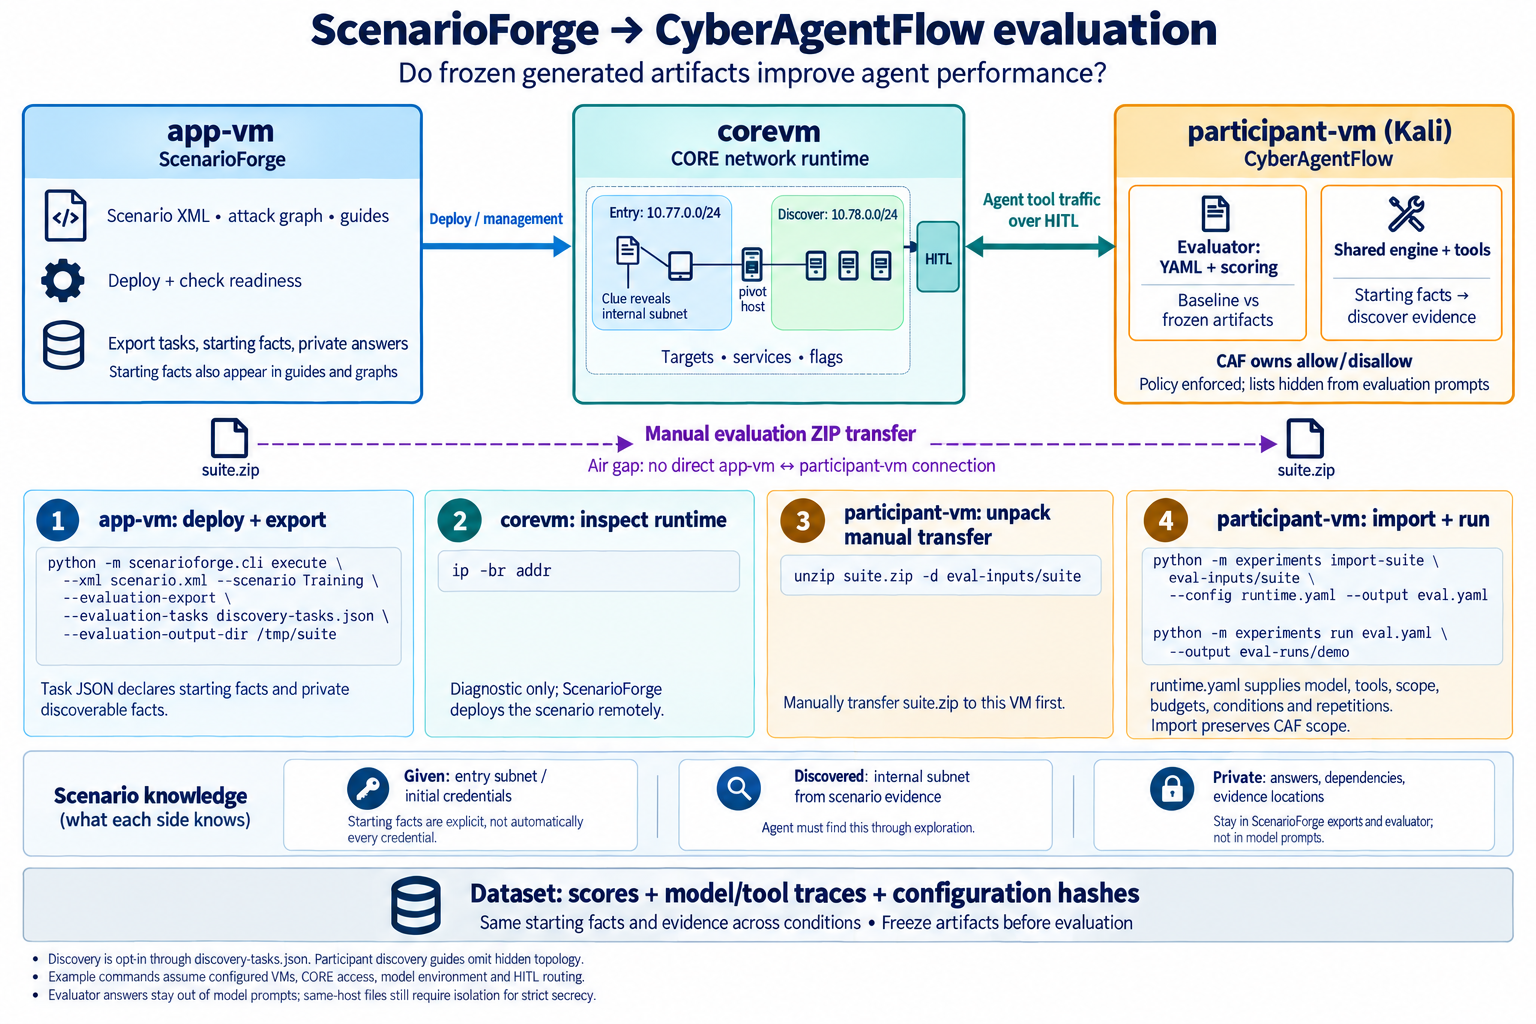
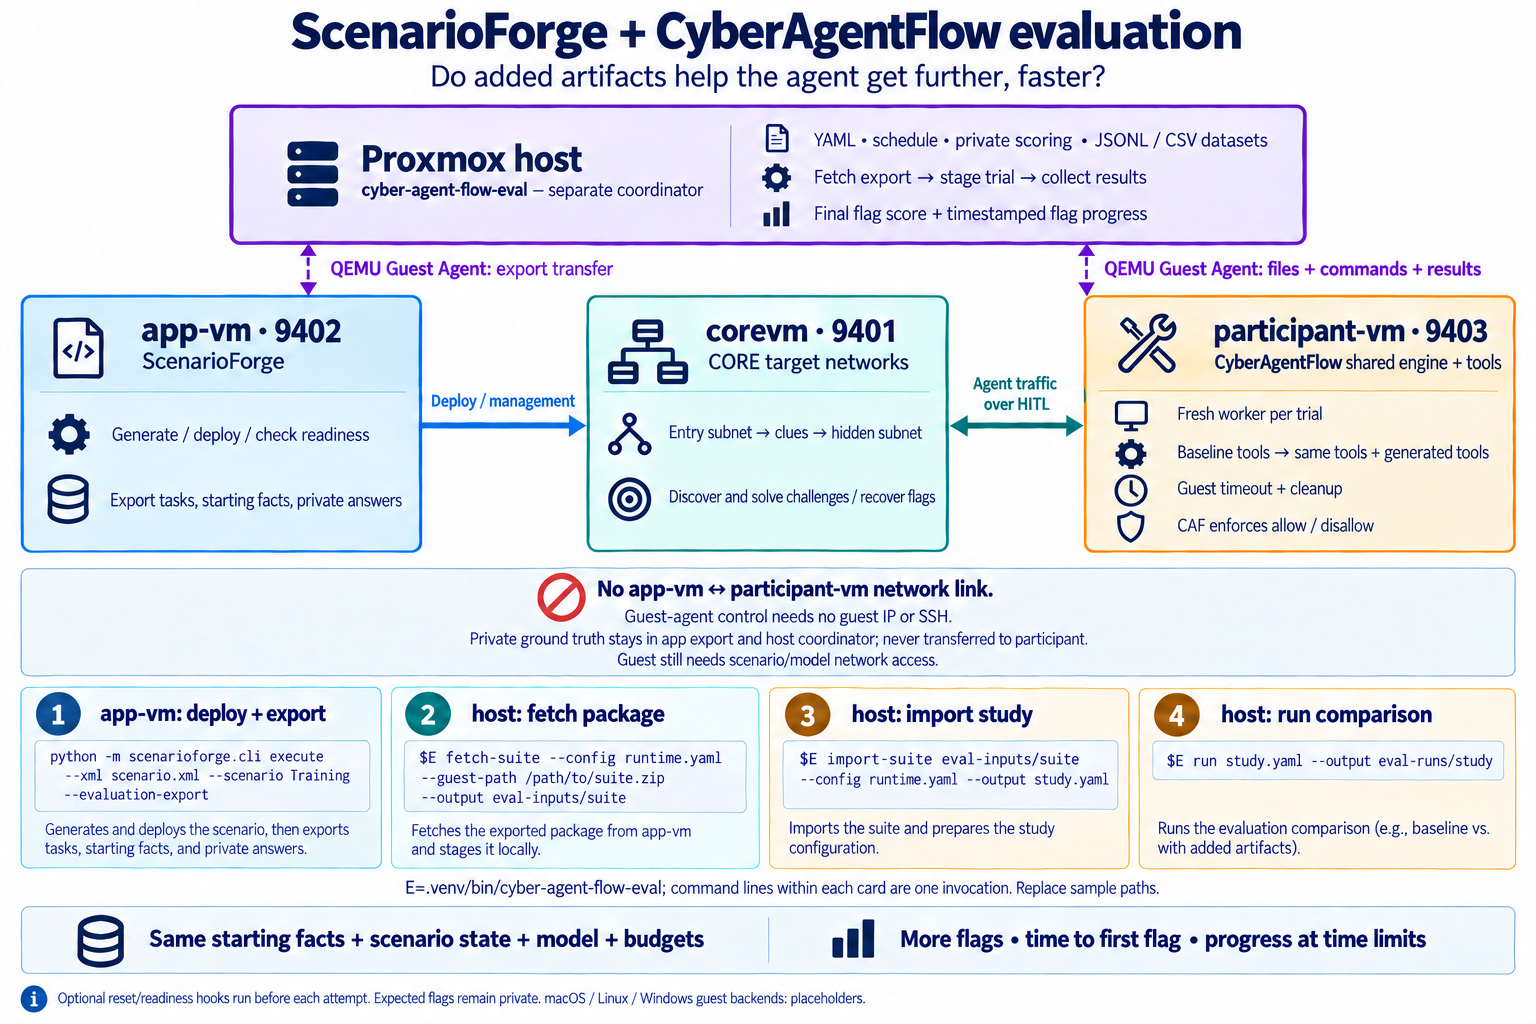
Fix network policy matching for numeric URLs
Numeric URL hosts are now normalized to IP/CIDR checks before policy evaluation, so allow/deny rules for bare IPs and CIDR ranges also apply to URLs like http://10.78.0.10:8080/. This keeps hostname-based URLs from being treated as implicit DNS targets and adds regression tests covering IPv4, IPv6, CIDR, and explicit URL path entries.

diff --git a/tests/test_network_policy_urls.py b/tests/test_network_policy_urls.py
@@ -1,0 +1,27 @@
+"""Numeric URL hosts must obey the same allow/deny scope as bare IPs."""
+import importlib
+
+import pytest
+
+
+@pytest.mark.parametrize('module_name', ['mcp_client', 'mcp_kali'])
+@pytest.mark.parametrize('allow,disallow,url,expected', [
+    (['10.78.0.10'], [], 'http://10.78.0.10:8080/', True),
+    (['10.78.0.0/24'], [], 'https://10.78.0.10/path', True),
+    (['10.78.0.0/24'], [], 'http://10.79.0.10/', False),
+    (['10.78.0.0/24'], ['10.78.0.128/25'], 'http://10.78.0.200/', False),
+    (['*'], ['10.78.0.10'], 'http://10.78.0.10:8080/', False),
+    (['*'], ['10.78.0.0/24'], 'http://10.78.0.10/', False),
+    (['10.78.0.0/24'], [], 'http://lab.example/', False),
+    (['10.78.0.0/24'], [], 'http://10.78.0.10@198.51.100.8/', False),
+    (['http://10.78.0.10:8080/demo/'], [], 'http://10.78.0.10:8080/demo/page', True),
+    (['http://10.78.0.10:8080/demo/'], [], 'http://10.78.0.10:8080/other/', False),
+    (['2001:db8::/64'], [], 'http://[2001:db8::1]:8080/', True),
+    (['*'], ['2001:db8::/64'], 'http://[2001:db8::1]:8080/', False),
+])
+def test_numeric_url_scope(module_name, allow, disallow, url, expected):
+    module = importlib.import_module(module_name)
+    allowed, message = module._evaluate_network_policy({'allow': allow, 'disallow': disallow}, {'args': url})
+    assert allowed is expected
+    if not allowed:
+        assert message == 'Target is not permitted by the execution policy.'

diff --git a/mcp_kali.py b/mcp_kali.py
@@ -2082,6 +2082,15 @@ def _entry_matches_target(entry: str, target: dict) -> bool:
             return target_host == (parsed.hostname or '').lower().rstrip('.')
         return False
 
+    # IP/CIDR scope applies to numeric URL hosts as well as bare addresses.
+    # Hostnames remain hostnames; this does not implicitly resolve DNS targets.
+    if target_kind == 'url':
+        try:
+            target_value = str(ipaddress.ip_address(target_host))
+            target_kind = 'ip'
+        except ValueError:
+            pass
+
     try:
         if '/' in entry_lower:
             entry_net = ipaddress.ip_network(entry_lower, strict=False)

diff --git a/mcp_client.py b/mcp_client.py
@@ -843,6 +843,15 @@ def _entry_matches_target(entry: str, target: dict) -> bool:
             return target_host == (parsed.hostname or '').lower().rstrip('.')
         return False
 
+    # IP/CIDR scope applies to numeric URL hosts as well as bare addresses.
+    # Hostnames remain hostnames; this does not implicitly resolve DNS targets.
+    if target_kind == 'url':
+        try:
+            target_value = str(ipaddress.ip_address(target_host))
+            target_kind = 'ip'
+        except ValueError:
+            pass
+
     try:
         if '/' in entry_lower:
             entry_net = ipaddress.ip_network(entry_lower, strict=False)

diff --git a/README.md b/README.md
@@ -69,6 +69,16 @@ The architecture above shows the main WebUI path. The separate evaluator enters
 the shared engine through its own execution adapter, bypassing Flask and using its own
 YAML configuration, workers, records and scoring. See the
 [application-boundary diagram](../cyber-agent-flow-eval/docs/artifact-evaluation-workflow.md#main-application-versus-evaluator).
+For the full host workflow, use
+[`cyber-agent-flow-orchestrator`](../cyber-agent-flow-orchestrator/README.md):
+ScenarioForge deployment/export → configured artifact generation/testing → frozen
+condition artifacts → `cyber-agent-flow-eval` trials and datasets. The orchestrator
+and evaluator coordinator run on the Proxmox host; CAF and the thin evaluation
+worker run in participant-vm. CAF still owns the engine, tool execution and artifact
+APIs. Standalone evaluator execution remains supported.
+For the evaluator's Proxmox execution layer, see the updated
+[ScenarioForge / CAF evaluation figure](scenarioforge_cyber-agent-flow.png) and
+[three simple experiments](../cyber-agent-flow-eval/examples/README.md).
 
 ## Requirements
 
